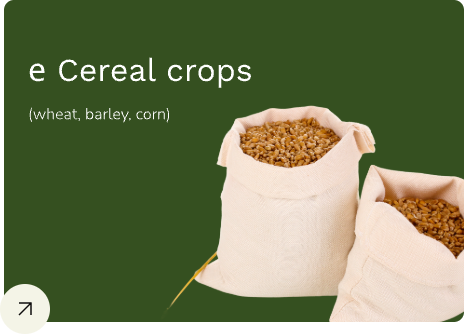
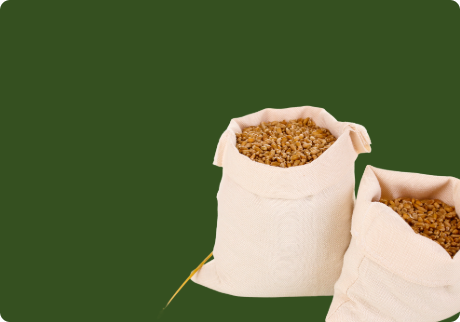
+ products

diff --git a/index.html b/index.html
@@ -191,7 +191,11 @@
                   High quality agricultural products
                 </h2>
                 <div class="products__list">
-                  <a href="#" class="products__item">
+                  <a
+                    href="#"
+                    class="products__item"
+                    style="background-image: url(/images/crops.png)"
+                  >
                     <h3 class="products__item-title">е Cereal crops</h3>
                     <p class="products__item-text">(wheat, barley, corn)</p>
                     <button class="products__item-btn">
@@ -199,7 +203,11 @@
                     </button>
                   </a>
 
-                  <a href="#" class="products__item">
+                  <a
+                    href="#"
+                    class="products__item"
+                    style="background-image: url(/images/oil.png)"
+                  >
                     <h3 class="products__item-title">🌻 Oilseeds</h3>
                     <p class="products__item-text">
                       (sunflower, rapeseed, soybean)
@@ -209,7 +217,11 @@
                     </button>
                   </a>
 
-                  <a href="#" class="products__item">
+                  <a
+                    href="#"
+                    class="products__item"
+                    style="background-image: url(/images/dairy.png)"
+                  >
                     <h3 class="products__item-title">🥛 Dairy products</h3>
                     <p class="products__item-text">(milk, dairy products)</p>
                     <button class="products__item-btn">
@@ -217,7 +229,11 @@
                     </button>
                   </a>
 
-                  <a href="#" class="products__item">
+                  <a
+                    href="#"
+                    class="products__item"
+                    style="background-image: url(/images/bakery.png)"
+                  >
                     <h3 class="products__item-title">🍞 Bakery products</h3>
                     <p class="products__item-text">(bread, pastries)</p>
                     <button class="products__item-btn">
@@ -225,7 +241,11 @@
                     </button>
                   </a>
 
-                  <a href="#" class="products__item">
+                  <a
+                    href="#"
+                    class="products__item"
+                    style="background-image: url(/images/poultry.png)"
+                  >
                     <h3 class="products__item-title">🐔 Poultry farming</h3>
                     <p class="products__item-text">(chicken, eggs)</p>
                     <button class="products__item-btn">
@@ -233,7 +253,11 @@
                     </button>
                   </a>
 
-                  <a href="#" class="products__item">
+                  <a
+                    href="#"
+                    class="products__item"
+                    style="background-image: url(/images/vegetables.png)"
+                  >
                     <h3 class="products__item-title">
                       🍏 Vegetables and fruits
                     </h3>
@@ -245,7 +269,34 @@
                     </button>
                   </a>
                 </div>
-                <a href="#" class="products__link">See catalog</a>
+                <a href="#" class="products__link"
+                  >See catalog
+                  <svg
+                    viewBox="0 0 54 54"
+                    xmlns="http://www.w3.org/2000/svg"
+                    xmlns:xlink="http://www.w3.org/1999/xlink"
+                    width="54.000000"
+                    height="54.000000"
+                    fill="none"
+                    customFrame="#000000"
+                  >
+                    <g id="Group 41006">
+                      <circle
+                        id="Ellipse 44"
+                        cx="27"
+                        cy="27"
+                        r="27"
+                        fill="rgb(255,255,255)"
+                      />
+                      <path
+                        id="Vector 1"
+                        d="M25 22L35 22L35 32M35 22L25 32"
+                        stroke="rgb(0,0,0)"
+                        stroke-width="1.5"
+                      />
+                    </g>
+                  </svg>
+                </a>
               </div>
             </div>
           </div>

diff --git a/css/style.css b/css/style.css
@@ -247,3 +247,79 @@ body {
 .about__progress-item dd {
   opacity: 0.6;
 }
+
+.products__wrapper {
+  background-color: #f4f4e7;
+  border-radius: 20px;
+  padding: 50px 0;
+}
+
+.products__title {
+  font-family: "WorkSans-Medium", sans-serif;
+  text-transform: uppercase;
+  font-weight: 500;
+  font-size: 40px;
+  text-align: center;
+  margin-bottom: 40px;
+}
+
+.products__list {
+  display: grid;
+  grid-template-columns: repeat(3, 1fr);
+  gap: 16px;
+  margin-bottom: 35px;
+}
+
+.products__item {
+  border-radius: 10px;
+  min-height: 322px;
+  margin-bottom: 12px;
+  padding: 50px 24px;
+  position: relative;
+  background-repeat: no-repeat;
+  background-position: center;
+  background-size: cover;
+}
+
+.products__item-btn {
+  position: absolute;
+  bottom: -12px;
+  left: -8px;
+  border: none;
+  background-color: transparent;
+}
+
+.products__item-title {
+  font-family: "WorkSans-Regular", sans-serif;
+  margin-bottom: 14px;
+  font-size: 32px;
+  font-weight: 400;
+  line-height: 38px;
+}
+
+.products__item-text {
+  font-weight: 300;
+}
+
+.products__item:nth-child(odd) {
+  color: #fff;
+}
+
+.products__link {
+  display: block;
+  text-transform: uppercase;
+  font-weight: 500;
+  border-radius: 96px;
+  padding: 19px 97px 19px 38px;
+  background-color: #0e0d0d;
+  position: relative;
+  color: #fff;
+  margin: 0 auto;
+  width: 242px;
+}
+
+.products__link svg {
+  position: absolute;
+  right: 4px;
+  top: 3px;
+}
